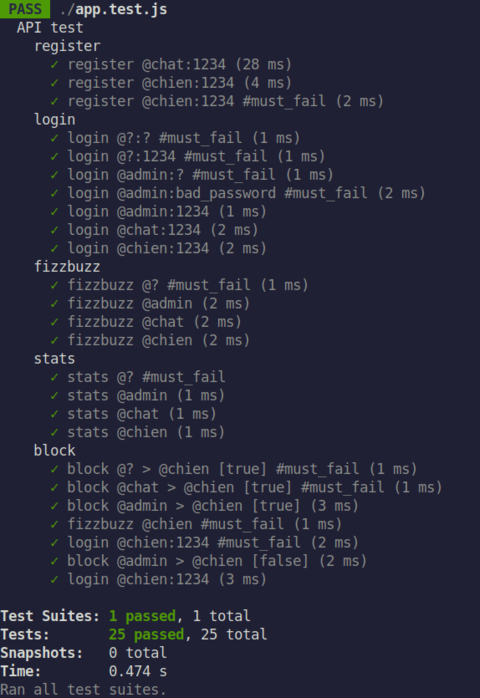
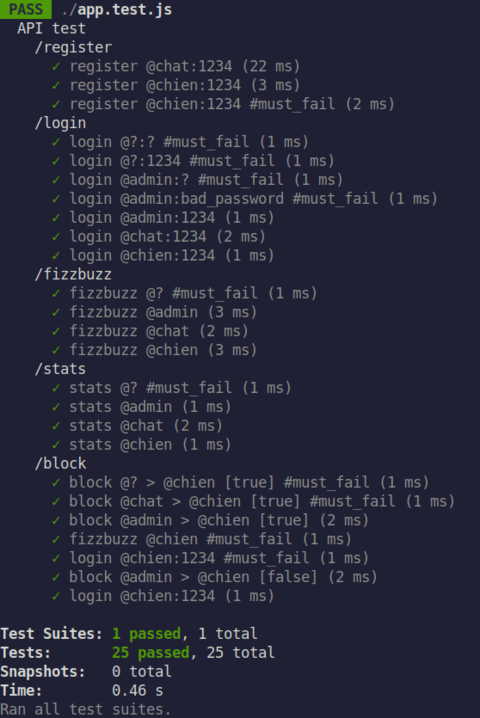
improve README.md x3

Changed region(s): [[0.0312, 0.0, 0.9375, 0.8424], [0.0, 0.8725, 0.5625, 1.0], [0.5625, 0.5115, 0.5938, 0.5716]]

diff --git a/test/app.test.js b/test/app.test.js
@@ -93,7 +93,7 @@ describe("API test", function () {
   };
 
   // ===================================== REGISTER
-  describe("register", function () {
+  describe("/register", function () {
     it("register @chat:1234", (done) => {
       request
         .post("/register")
@@ -144,7 +144,7 @@ describe("API test", function () {
     });
   });
   // ===================================== LOGIN
-  describe("login", function () {
+  describe("/login", function () {
     it("login @?:? #must_fail", (done) => {
       request
         .post("/login")
@@ -263,7 +263,7 @@ describe("API test", function () {
     });
   });
   // ===================================== FIZZBUZZ
-  describe("fizzbuzz", function () {
+  describe("/fizzbuzz", function () {
     it("fizzbuzz @? #must_fail", (done) => {
         request
           .get("/fizzbuzz")
@@ -349,7 +349,7 @@ describe("API test", function () {
     });
   });
   // ===================================== STATS
-  describe("stats", function () {
+  describe("/stats", function () {
     it("stats @? #must_fail", (done) => {
       request
         .get("/stats")
@@ -410,7 +410,7 @@ describe("API test", function () {
     });
   });
   // ===================================== BLOCK
-  describe("block", function () {
+  describe("/block", function () {
     it("block @? > @chien [true] #must_fail", (done) => {
       request
         .patch("/block")

diff --git a/README.md b/README.md
@@ -1,6 +1,6 @@
 # fizzbuzz
 
-A small [fizzbuzz](https://en.wikipedia.org/wiki/Fizz_buzz) API implementation using [go](https://golang.org/), [postgresql](https://www.postgresql.org/), [redis](https://redis.io/), [pgadmin](https://www.pgadmin.org/), and [jest](https://jestjs.io/)/[supertest](https://www.npmjs.com/package/supertest) tester. **(docker-compose)**
+A small [fizzbuzz](https://en.wikipedia.org/wiki/Fizz_buzz) API implementation using [go](https://golang.org/), [postgresql](https://www.postgresql.org/), [redis](https://redis.io/), [pgadmin](https://www.pgadmin.org/) and a [jest](https://jestjs.io/)/[supertest](https://www.npmjs.com/package/supertest) tester. **(docker-compose)**
 
 ## Usage
 
@@ -13,7 +13,7 @@ docker-compose up -d
 
 The API is accessible on [localhost:8080](http://localhost:8080/).
 
-You will find the [postam](https://www.postman.com/) collection from the `fizzbuzz.postman_collection.json` file.
+You will find the [postam](https://www.postman.com/) collection from the `fizzbuzz.postman_collection.json` exported file.
 
 You will also find the API documentation [here](https://github.com/trixky/fizzbuzz/blob/main/server/README.md).
 
@@ -31,17 +31,12 @@ Pgadmin is accessible on [localhost:5050](http://localhost:5050/).
 
 ## Test
 
+The API synchronous tester is built with [jest](https://jestjs.io/)/[supertest](https://www.npmjs.com/package/supertest) on [node.js](https://nodejs.org/)
+
 ```bash
 docker-compose run test
 ```
 
-![screenshot](https://raw.githubusercontent.com/trixky/fizzbuzz/main/demo/test.png)
-
 > The test erase all data on postgresql and redis!
 
-## Stack
-
-- Go
-- Node.js / Jest / Supertest
-- Postgresql
-- Redis
+![screenshot](https://raw.githubusercontent.com/trixky/fizzbuzz/main/demo/test.png)
